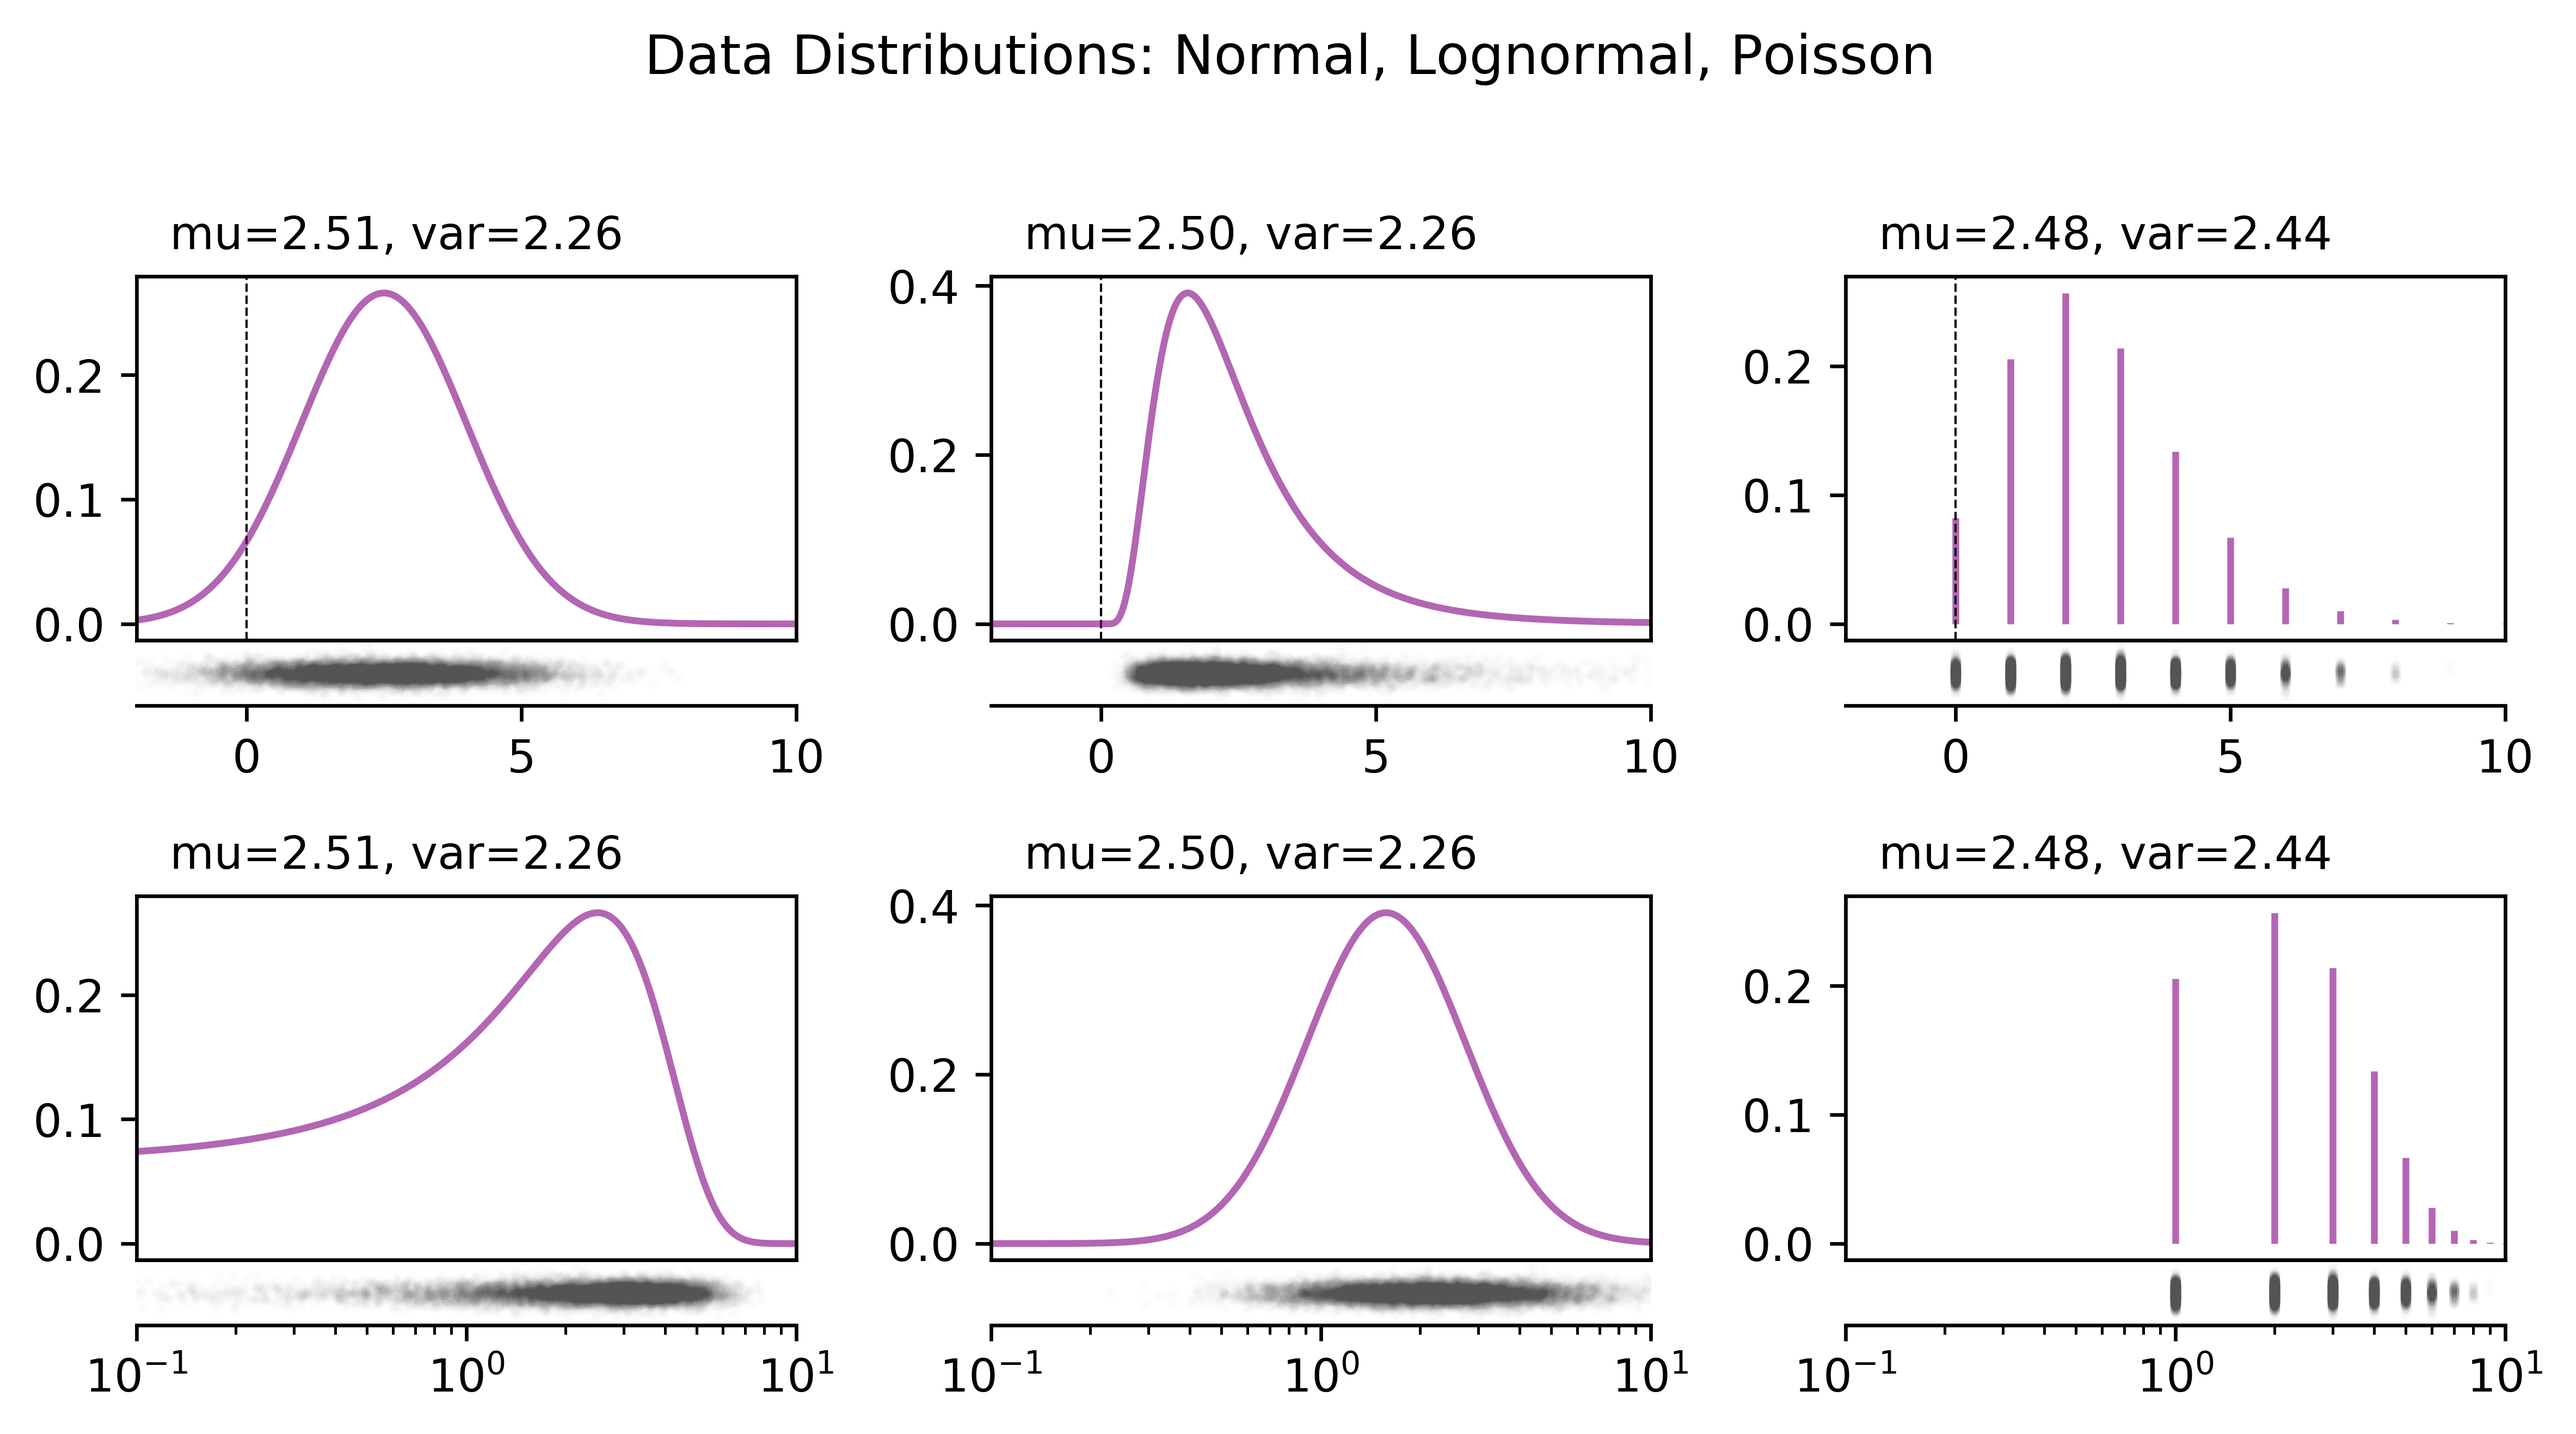
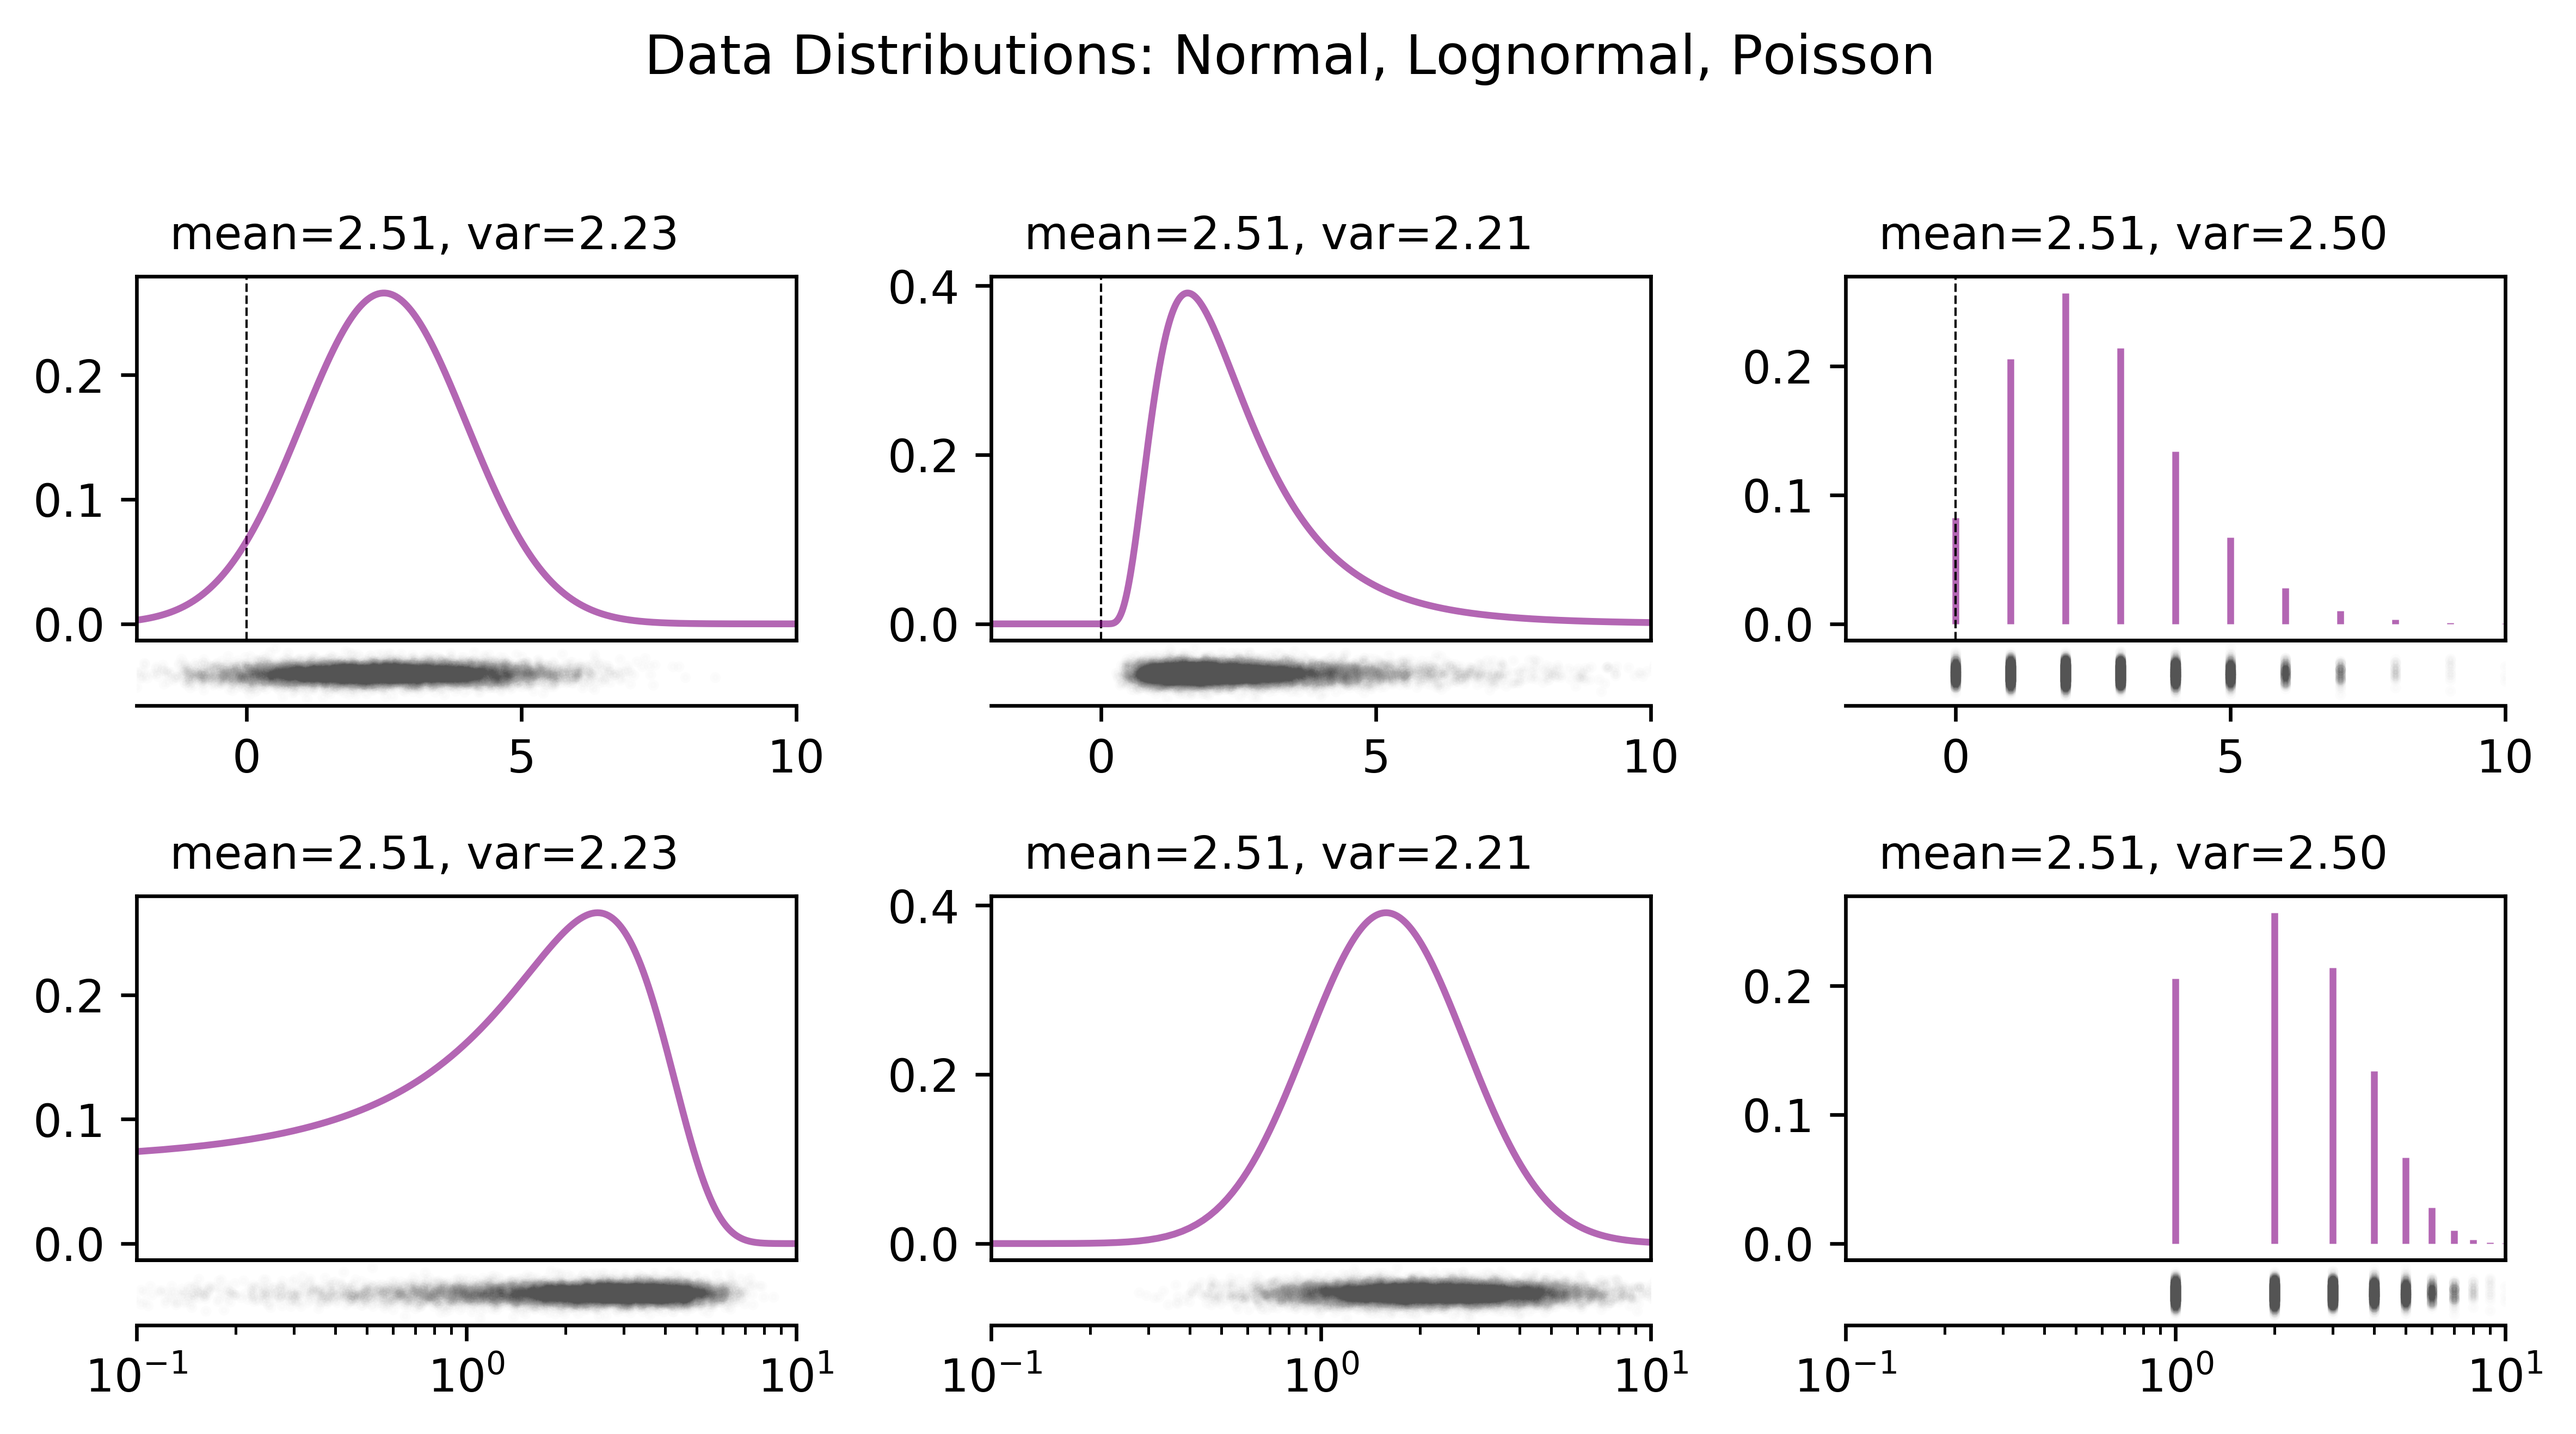
Update Compositional Data Page

diff --git a/docs/examples/comp/compositional_data.py b/docs/examples/comp/compositional_data.py
@@ -1,14 +1,10 @@
 import numpy as np
 import pandas as pd
-import itertools
 import matplotlib.pyplot as plt
-from scipy.stats import norm, poisson, lognorm
-from pyrolite.data.Aitchison import *
-from pyrolite.util.plot import share_axes, subaxes
-from pyrolite.util.distributions import lognorm_to_norm, norm_to_lognorm
-
 # %% Data
-# pyrolite comes with a few datasets from Aitchison (1984) built in:
+# pyrolite comes with a few datasets from Aitchison (1984) built in which we can use
+# ax examples:
+from pyrolite.data.Aitchison import load_kongite
 df = load_kongite()
 # %% Simple Means and covariance
 # Say you want to know the average ratio between A and B
@@ -33,6 +29,7 @@ np.exp(logA_on_B.mean())  # 2.4213410747400514
 (np.std(logB_on_A) / logB_on_A.mean()) ** 2  # 0.36598579018127086
 
 # %% Ratios of Poisson Data
+from scipy.stats import norm, poisson, lognorm
 means = [[10, 10], [10, 20], [20, 100], [1000, 50]]
 fig, ax = plt.subplots(len(means), 3, figsize=(9, 8))
 ax[-1, 0].set_xlabel("A")
@@ -81,9 +78,10 @@ for ix, (m1, m2) in enumerate(means):
 plt.tight_layout()
 # %% Save Figure
 from pyrolite.util.plot import save_figure
-
 save_figure(fig, save_at="../../source/_static", name="PoissonLognormals")
 # %% Compositional data distributions
+from pyrolite.util.plot import share_axes, subaxes
+from pyrolite.util.distributions import lognorm_to_norm, norm_to_lognorm
 # starting from a normal distribution, then creating similar non-normal distributions
 mean, sd = 2.5, 1.5  #
 logmu, logs = norm_to_lognorm(mean, sd)  # parameters for equival
@@ -114,7 +112,7 @@ for ix, dist in enumerate([normrv, lognormrv, poissonrv]):
     _ys = -0.05 + np.random.randn(10000) / 100  # random offsets for visualisation
     for a in [ax[ix], ax[ix + 3]]:
         a.annotate(
-            "mu={:.2f}, var={:.2f}".format(np.mean(_xs), np.var(_xs)),
+            "mean={:.2f}, var={:.2f}".format(np.mean(_xs), np.var(_xs)),
             xy=(0.05, 1.05),
             ha="left",
             va="bottom",
@@ -137,14 +135,10 @@ fig.suptitle("Data Distributions: Normal, Lognormal, Poisson", y=1.1)
 plt.tight_layout()
 # %% Save Figure
 from pyrolite.util.plot import save_figure
-
 save_figure(fig, save_at="../../source/_static", name="CompositionalDistributions")
-
 # %% Higher Dimensional Visualisation of Mean
-from pyrolite.comp.codata import clr, inverse_clr, logratiomean
-
-# This issue of accuracy/validity of means is also seen in higher dimensions:
-df = load_kongite()
+from pyrolite.comp.codata import logratiomean
+import itertools
 
 fig, ax = plt.subplots(2, 2, figsize=(12, 12))
 ax = ax.flat
@@ -163,4 +157,5 @@ for columns, a in zip(itertools.combinations(["A", "B", "C", "D"], 3), ax):
     )
     a.legend(frameon=False, facecolor=None, loc=(0.8, 0.5))
 # %% Save Figure --
+from pyrolite.util.plot import save_figure
 save_figure(fig, save_at="../../source/_static", name="LogRatioMeansTernary")

diff --git a/docs/source/usage/eg/comp/compositional_data.rst b/docs/source/usage/eg/comp/compositional_data.rst
@@ -67,7 +67,8 @@ standardised statistical measures - as long as you're log-transforming your data
 When performing multivariate analysis, use log-ratio transformations (including the
 additive logratio :func:`~pyrolite.comp.codata.alr`, centred logratio
 :func:`~pyrolite.comp.codata.clr` and isometric logratio
-:func:`~pyrolite.comp.codata.ilr`):
+:func:`~pyrolite.comp.codata.ilr`). In this case, the logratio-mean is implemented for
+you:
 
 .. literalinclude:: ../../../../examples/comp/compositional_data.py
   :language: python
